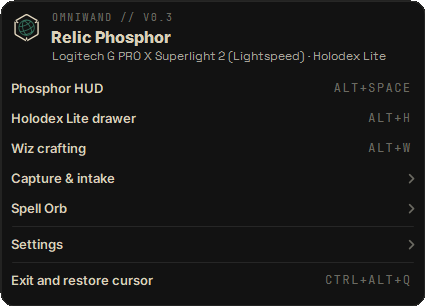
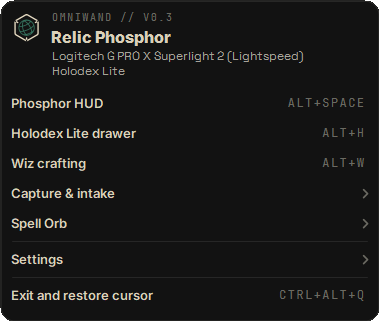
fix(render): tray composites leave the menu rows unlit; refresh as-built menu shots
RenderTrayComposite lit each open row with Select(), and on a menu that is
never shown nothing clears it, so later captures (and the next tray open)
drew Settings lit. It now unselects its rows when done. The as-built menu
shots are re-rendered at the shared 379px column with the header subline
on two lines.

diff --git a/SurfaceCapture.cs b/SurfaceCapture.cs
@@ -309,6 +309,13 @@ internal static class SurfaceCapture
         }
         foreach (var shot in shots) shot.Dispose();
 
+        // Put the rows back unlit: the menu was never shown, so nothing else clears the selection, and the next
+        // capture (or the next time the tray opens it) would draw them lit. Hiding an item unselects it.
+        foreach (var item in path)
+        {
+            item.Available = false;
+            item.Available = true;
+        }
         for (int i = path.Count - 1; i >= 0; i--) path[i].DropDown.Close();
         trayMenu.Close();
         return bmp;
